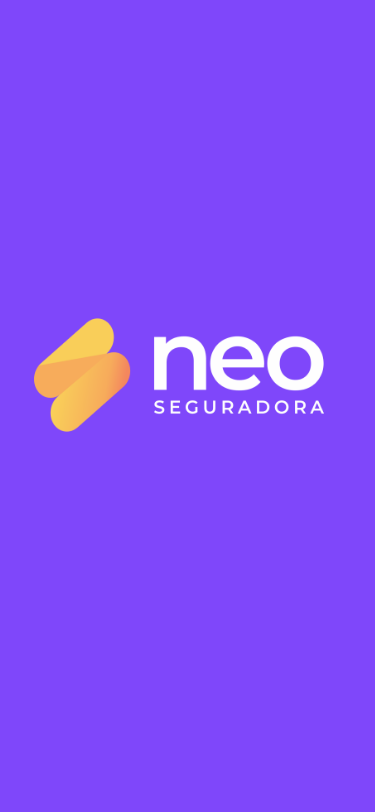
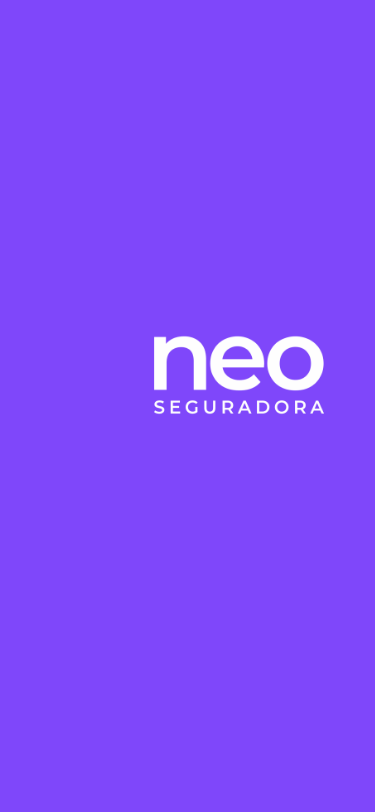
a

Changed region(s): [[0.088, 0.3695, 0.352, 0.5542]]

diff --git a/lib/widgets/busca_modelo_placa.dart b/lib/widgets/busca_modelo_placa.dart
@@ -15,6 +15,7 @@ import 'package:neo/components/componentes_globais/inputs/input_dropdown.dart';
 import 'package:neo/components/componentes_globais/inputs/input_texto.dart';
 import 'package:neo/components/componentes_globais/inputs/text_button.dart';
 import 'package:neo/components/componentes_globais/rotas_imagens/rotas_imagens_carrosel.dart';
+import 'package:neo/components/componentes_globais/slider_bar.dart';
 
 Widget modelo(Size size) {
   return Container(
@@ -73,7 +74,15 @@ Widget modelo(Size size) {
                   SizedBox(height: size.height * 0.01),
                   CustomDropdown(
                       size: size, text: 'Modelo', optionsList: ['optionsList']),
-                  Container(
+                      SliderBar(
+            divisions: 1,
+            min: 22.0,
+            max: 50,
+            size: size,
+          ),
+                  Padding(
+                    padding: EdgeInsets.only(right: 100),
+                    child:Container(
                     decoration: BoxDecoration(
                         border: Border.all(color: AppCores.ROXOPRINCIPAL),
                         borderRadius: BorderRadius.all(Radius.circular(20))),
@@ -85,10 +94,11 @@ Widget modelo(Size size) {
                         onPressed: () {
                           Get.offAll(BuscarPlaca());
                         }),
-                  ),
+                  ) ,),
+                  
                 ],
               )),
-          SizedBox(height: size.height * 0.32),
+          SizedBox(height: size.height * 0.01),
           Container(
             height: size.height * 0.05,
             width: size.width * 0.6,
@@ -102,7 +112,6 @@ Widget modelo(Size size) {
                 ContainerNaoSelect(),
                 SizedBox(width: size.width * 0.05),
                 ContainerNaoSelect(),
-                SizedBox(width: size.width * 0.05),
               ],
             ),
           )

diff --git a/lib/components/componentes_globais/animacao.dart b/lib/components/componentes_globais/animacao.dart
@@ -1,0 +1,43 @@
+import 'dart:async';
+import 'package:flutter/material.dart';
+
+class BouncingBallDemo extends StatefulWidget {
+  @override
+  _BouncingBallDemoState createState() => _BouncingBallDemoState();
+}
+
+class _BouncingBallDemoState extends State<BouncingBallDemo>
+    with TickerProviderStateMixin {
+  late AnimationController controller;
+
+  @override
+  void initState() {
+    super.initState();
+    controller = AnimationController(
+      vsync: this,
+      duration: Duration(seconds: 1),
+      lowerBound: 0,
+      upperBound: 100,
+      
+    );
+
+    controller.addListener(() {
+      setState(() {});
+    });
+
+    controller.repeat(reverse: true);
+  }
+
+  @override
+  Widget build(BuildContext context) {
+    return Container(
+      margin: EdgeInsets.only(top: controller.value),
+      child: Container(
+        decoration: BoxDecoration(
+          image: DecorationImage(image: AssetImage("assets/logo.png"), scale: 5)
+        ),
+        
+      ),
+    );
+  }
+}

diff --git a/lib/Screen/splash.dart b/lib/Screen/splash.dart
@@ -1,6 +1,7 @@
 import 'dart:async';
 import 'package:flutter/material.dart';
 import 'package:neo/Screen/carrosel/carrosel.dart';
+import 'package:neo/components/componentes_globais/animacao.dart';
 
 class splash extends StatefulWidget {
   @override
@@ -20,10 +21,9 @@ class _splashState extends State<splash> {
   @override
   Widget build(BuildContext context) {
     return Container(
-      child: Image.asset(
-        'assets/bg.png',
-        fit: BoxFit.cover,
-      ),
+      child: Padding(padding: EdgeInsets.only(right: 190, bottom: 150),
+      child: BouncingBallDemo()),
+      decoration: BoxDecoration( image: DecorationImage(image: AssetImage("assets/bg.png"), fit: BoxFit.cover)),
     );
   }
 }

diff --git a/lib/widgets/lista_cotacao.dart b/lib/widgets/lista_cotacao.dart
@@ -21,12 +21,7 @@ Widget lista(Size size, bool aceita, bool visualiza, bool campo, bool busca,
           if (campo) campos(size),
           if (busca) buscar(size),
           if (modelos) modelo(size),
-          SliderBar(
-            divisions: 1,
-            min: 22.0,
-            max: 50,
-            size: size,
-          )
+         
         ],
       ));
 }

diff --git a/lib/Screen/cotacao/buscar_modelo_placa.dart b/lib/Screen/cotacao/buscar_modelo_placa.dart
@@ -11,7 +11,7 @@ class BuscarModelo extends StatelessWidget {
     var size = mediaQuery.size;
     return ScaffoldPrincipal(
       title: TITULOS.COTACAO,
-      conteudo: lista(size, true, false, false, false, true),
+      conteudo: lista(size, true, false, false, false, true, ),
       rota: '',
     );
   }

diff --git a/lib/Screen/cotacao/buscar_placa.dart b/lib/Screen/cotacao/buscar_placa.dart
@@ -11,7 +11,7 @@ class BuscarPlaca extends StatelessWidget {
     var size = mediaQuery.size;
     return ScaffoldPrincipal(
       title: TITULOS.COTACAO,
-      conteudo: lista(size, true, false, false, true, false),
+      conteudo: lista(size, true, false, false, true, false, ),
       rota: '',
     );
   }

diff --git a/lib/Screen/cotacao/cadastro.dart b/lib/Screen/cotacao/cadastro.dart
@@ -20,7 +20,7 @@ class _CotarCadastroState extends State<CotarCadastro> {
     return ScaffoldPrincipal(
       rota: Routes.INITIAL,
       title: TITULOS.COTACAO,
-      conteudo: lista(size, true, true, true, false, false),
+      conteudo: lista(size, true, true, true, false, false, ),
     );
   }
 }

diff --git a/lib/Routes/app_pages.dart b/lib/Routes/app_pages.dart
@@ -25,7 +25,7 @@ import 'package:neo/widgets/sucesso_page.dart';
 
 class AppPages {
   static final routes = [
-    GetPage(name: Routes.INITIAL, page: () => HomePage()),
+    GetPage(name: Routes.INITIAL, page: () => splash()),
     GetPage(name: Routes.CADASTRO, page: () => CotarCadastro())
   ];
 }
